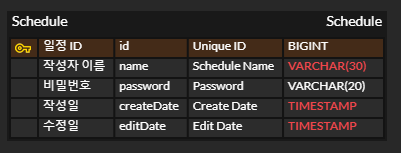
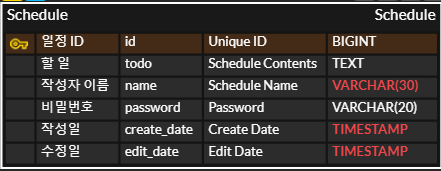
docs : draft Lv 1 (Requirement, Configuration)

diff --git a/README.md b/README.md
@@ -24,8 +24,8 @@
     - [X] id : 일정 아이디 / BIGINT / (PK)
     - [X] name : 일정 작성자 / VARCHAR(30)
     - [X] password : 비밀번호 / VARCHAR(20)
-    - [X] createDate : 작성일 / TIMESTAMP
-    - [X] editDate : 수정일 / TIMESTAMP
+    - [X] create_date : 작성일 / TIMESTAMP
+    - [X] edit_date : 수정일 / TIMESTAMP
 - [X] SQL 작성
 
 #### API 명세서
@@ -47,6 +47,7 @@
 CREATE TABLE schedule
 (
     id BIGINT AUTO_INCREMENT PRIMARY KEY COMMENT '일정 식별자',
+    todo TEXT COMMENT '할 일',
     name VARCHAR(30) COMMENT '작성자',
     password VARCHAR(20) COMMENT '비밀 번호',
     createDate TIMESTAMP COMMENT '작성일',
@@ -54,7 +55,77 @@ CREATE TABLE schedule
 );
 ```
 ---
+## Lv 1. 일정 생성 및 조회
 
+### Requirement
+
+- 일정 생성
+  - 할일, 작성자명, 비밀번호, 작성/수정일을 저장
+  - 작성/수정일은 날짜와 시간을 모두 포함한 형태
+  - 각 일정의 고유 식별자(ID)를 자동으로 생성하여 관리
+  - 최초 입력시, 수정일과 작성일은 동일
+- 전체 일정 조회
+  - 다음 조건을 바탕으로 등록된 일정 목록을 전부 조회
+    - 수정일(형식 : YYYY-MM-DD)
+    - 작성자명
+  - 조건 중 한 가지만 충족하거나, 둘다 충족을 하지 않을 수도, 두 가지를 모두 충족할 수도 있음.
+  - 수정일 기준 내림차순으로 정렬하여 조회
+- 선택 일정 조회
+  - 선택한 일정 단건의 정보를 조회
+  - ID를 사용하여 조회
+
+#### Definition
+
+- [ ] 일정 Entity
+  - [ ] 필드
+    - id
+    - 할일
+    - 작성자명
+    - 비밀번호
+    - 작성/수정일
+
+- [ ] 일정 Controller
+  - [ ] 일정 생성 메서드
+    - PostMapping 사용
+    - RequestBody 로 데이터를 가져옴
+    - 일정 Service 통해 일정 저장 후 return
+  - [ ] 전체 일정 조회 메서드
+    - GetMapping 사용
+    - RequestParam을 통해 수정일, 작성자명 데이터를 가져옴
+    - 일정 Service 통해 조건에 맞는 일정을 List로 가져와 return
+  - [ ] 특정 일정 조회 메서드
+    - GetMapping 사용
+    - PathVariable통해 id 값 가져옴
+    - 일정 Service 통해 id값에 맞는 일정 가져와 return
+
+- [ ] 일정 RequestDto
+  - id 제외 데이터 사용
+- [ ] 일정 ResponseDto
+  - 전체 데이터 사용
+
+- [ ] 일정 Service
+  - [ ] 일정 ServiceImpl
+    - [ ] 일정 저장 메서드
+      - 일정 객체 생성
+      - 생성한 객체를 사용해 일정 Repository에 저장 요청 후 반환 값return
+    - [ ] 전체 일정 조회 메서드
+      - 들어온 조건을 사용해 일정 Repository에 일정 조회 요청 후 반환 값 return
+    - [ ] 특정 일정 조회 메서드
+      - 들어온 id값을 사용해 일정 Repository에 일정 조회 요청 후 반환 값 return
+
+- [ ] 일정 Repository
+  - [ ] 일정 RepositoryImpl
+    - [ ] 일정 저장 메서드
+      - JDBC 테이블 및 컬럼 설정
+      - 파라미터를 들어온 값을 사용해 설정
+      - JDBC에 저장한 이후 Key 값을 받음
+      - Key값 과 들어온 데이터를 반환
+    - [ ] 전체 일정 조회 메서드
+      - 특정 조건에 해당하는 데이터를 JDBC에서 query를 사용해 받아와 반환
+    - [ ] 특정 일정 조회 메서드
+      - 특정 id에 해당하는 데이터를 JDBC에서 query를 사용해 받아와 반환
+
+___
 ## Commit Convention
 
 ### 형식
